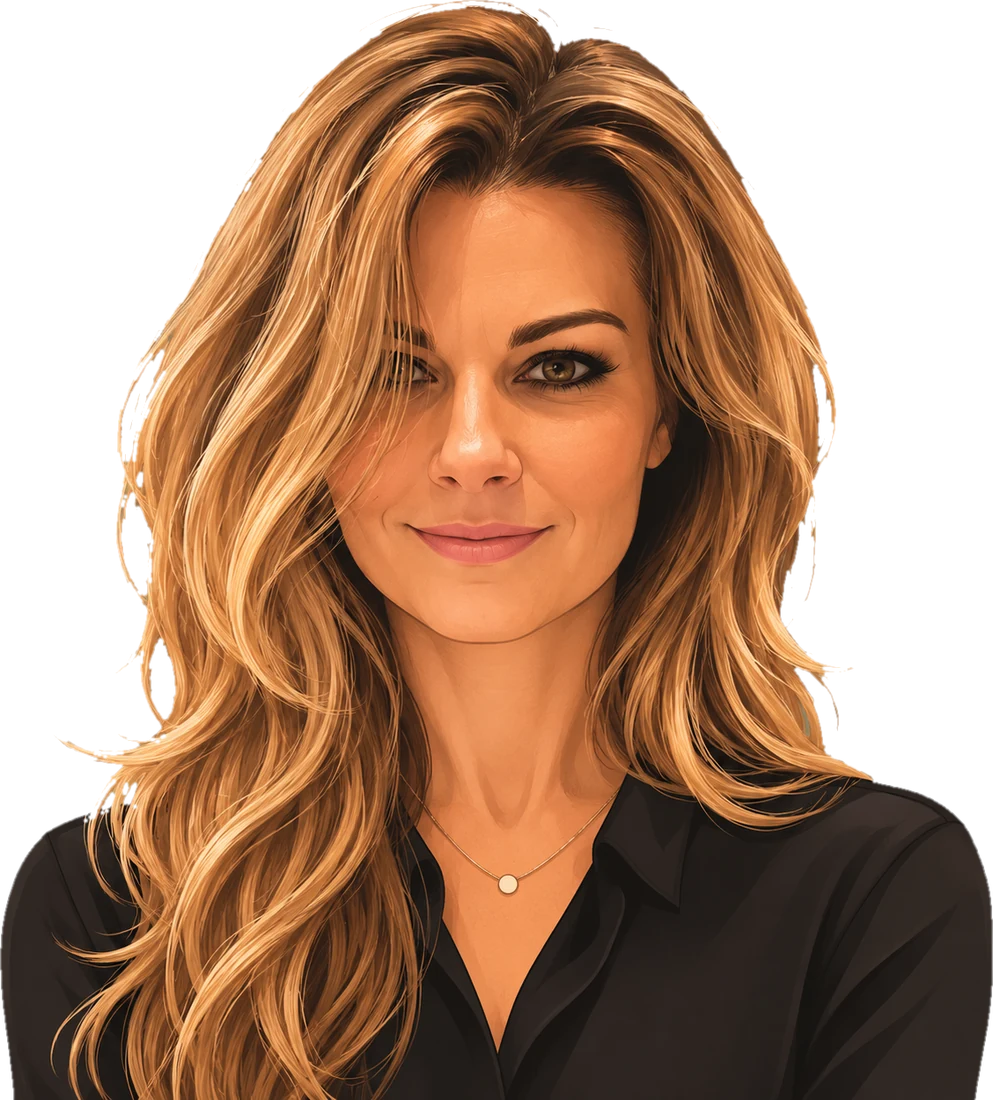
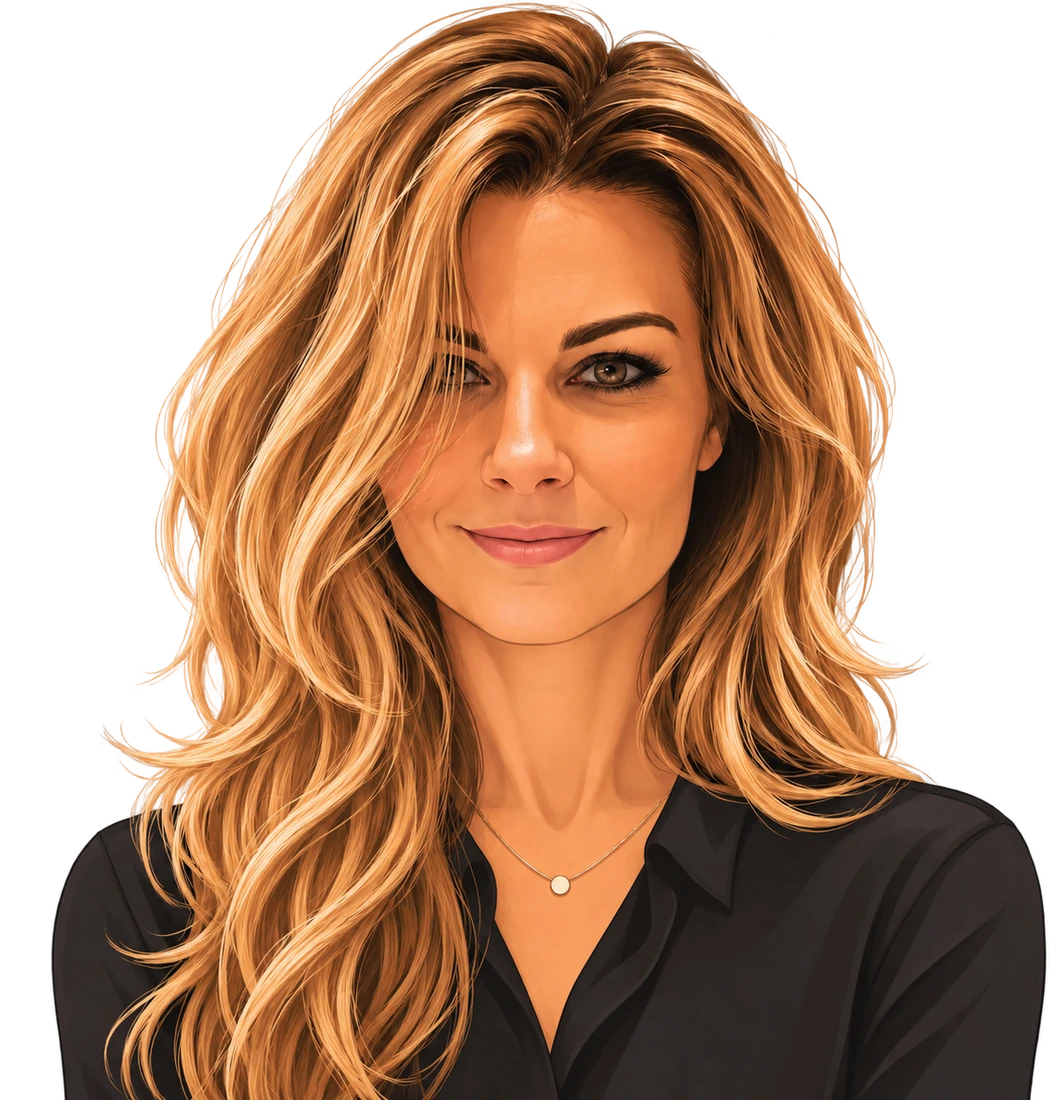
Swap in Erin's clean transparent cutout
Claude-Session: https://claude.ai/code/session_01G1SosHTHWbmRmPKjtgSpV7

diff --git a/src/css/style.css b/src/css/style.css
@@ -303,12 +303,12 @@ body { font-size: 1.0938rem; letter-spacing: .005em; }
 .about-side .bio-photo img { object-fit: contain; object-position: center bottom; }
 
 /* Cutout portrait standing in her own follow spot */
-.stage-photo { position: relative; aspect-ratio: 993 / 1100; max-width: 520px; justify-self: end; isolation: isolate; }
+.stage-photo { position: relative; aspect-ratio: 1051 / 1100; max-width: 520px; justify-self: end; isolation: isolate; }
 .stage-photo::before { content: ""; position: absolute; z-index: -1; left: 50%; top: 42%; width: 120%; aspect-ratio: 1; transform: translate(-50%, -50%);
   background: radial-gradient(circle, #fff3e02e 0%, #c9a36a24 32%, #7c4d7230 55%, transparent 70%); }
 .stage-photo::after { content: ""; position: absolute; z-index: -1; left: 50%; bottom: -2%; width: 90%; height: 10%; transform: translateX(-50%);
   background: radial-gradient(closest-side, #c9a36a33, transparent); }
 .stage-photo img { object-fit: contain; object-position: center bottom; filter: drop-shadow(0 20px 40px #0008);
   -webkit-mask-image: linear-gradient(#000 80%, transparent 99%); mask-image: linear-gradient(#000 80%, transparent 99%); }
-.about-side .bio-photo { aspect-ratio: 993 / 1100; background: radial-gradient(circle at 50% 40%, #7c4d72 0%, var(--stage) 70%); }
+.about-side .bio-photo { aspect-ratio: 1051 / 1100; background: radial-gradient(circle at 50% 40%, #7c4d72 0%, var(--stage) 70%); }
 @media (max-width: 860px) { .stage-photo { justify-self: center; max-width: 22rem; } }
